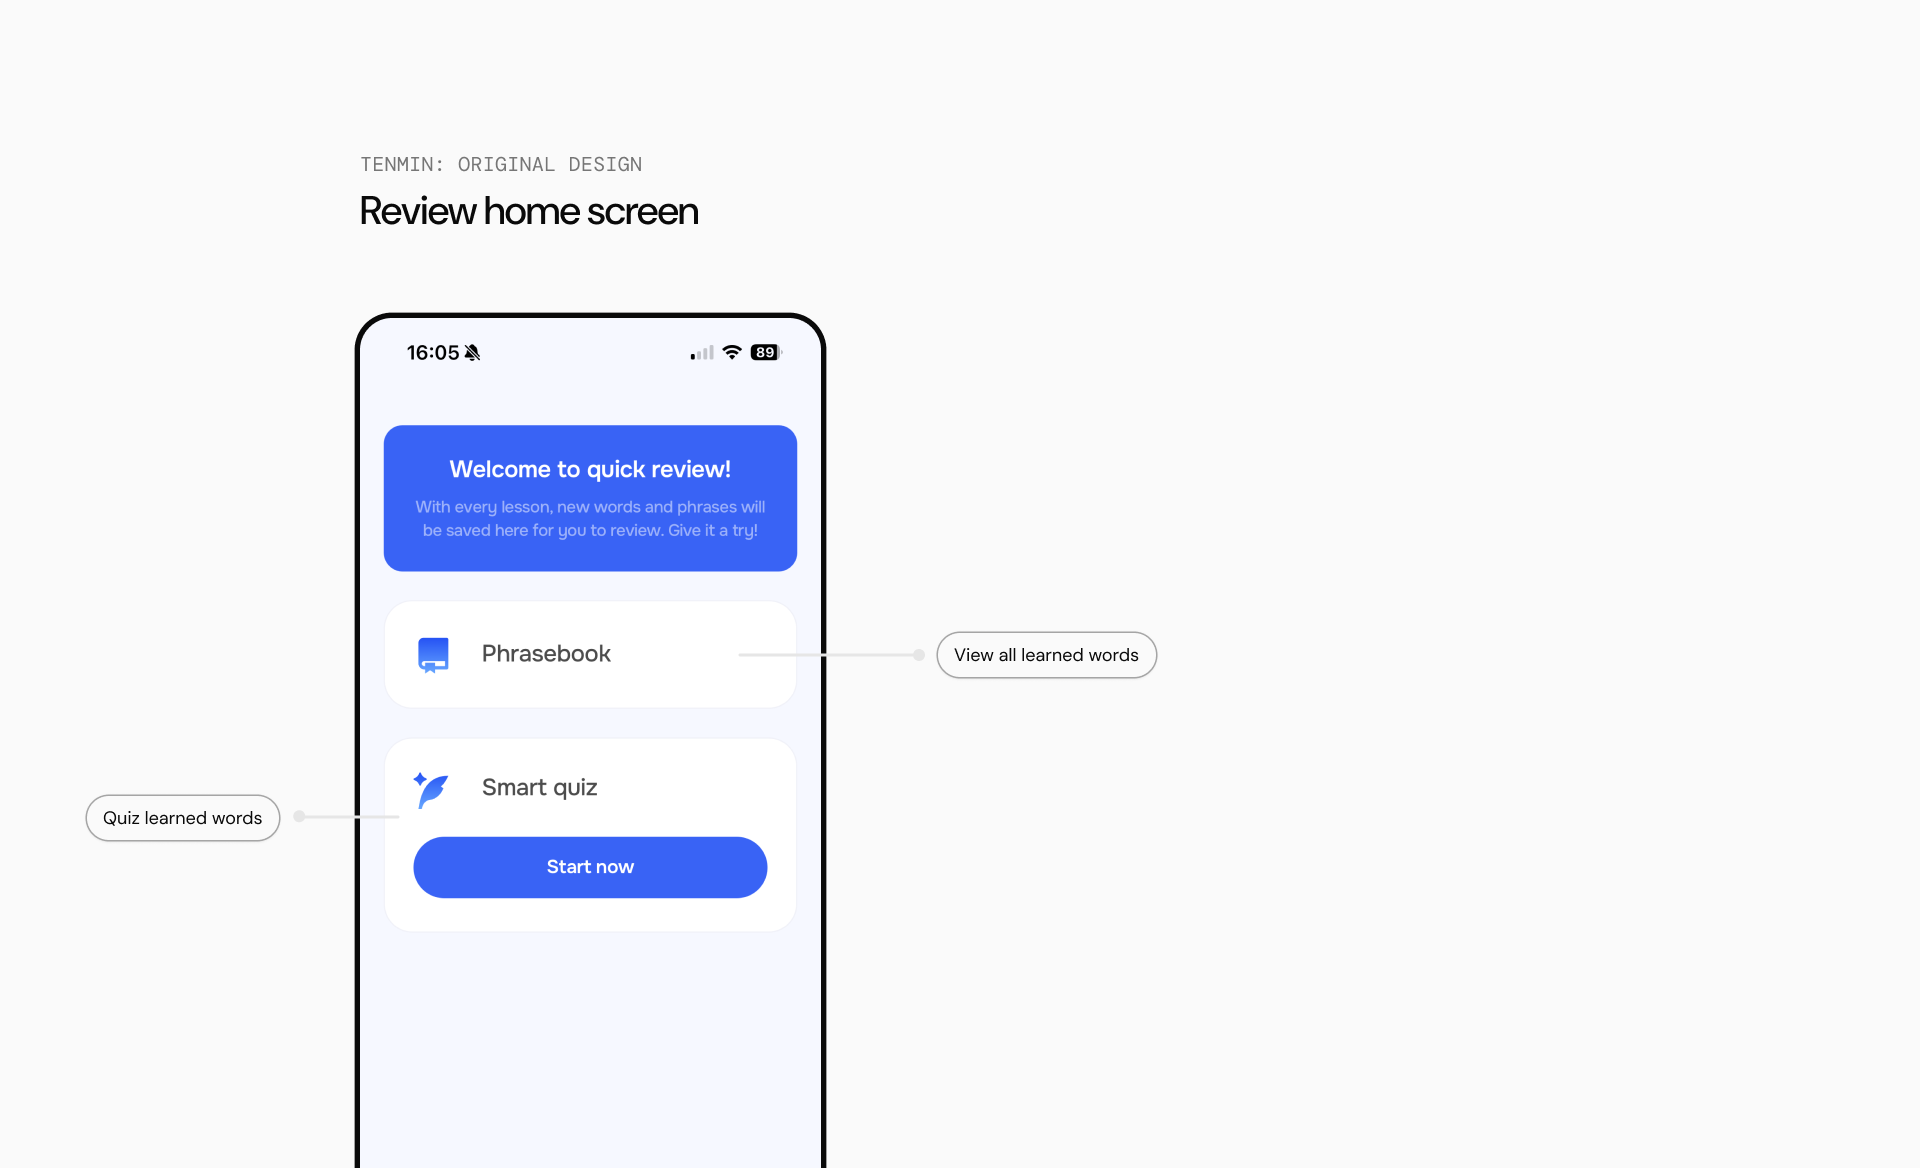
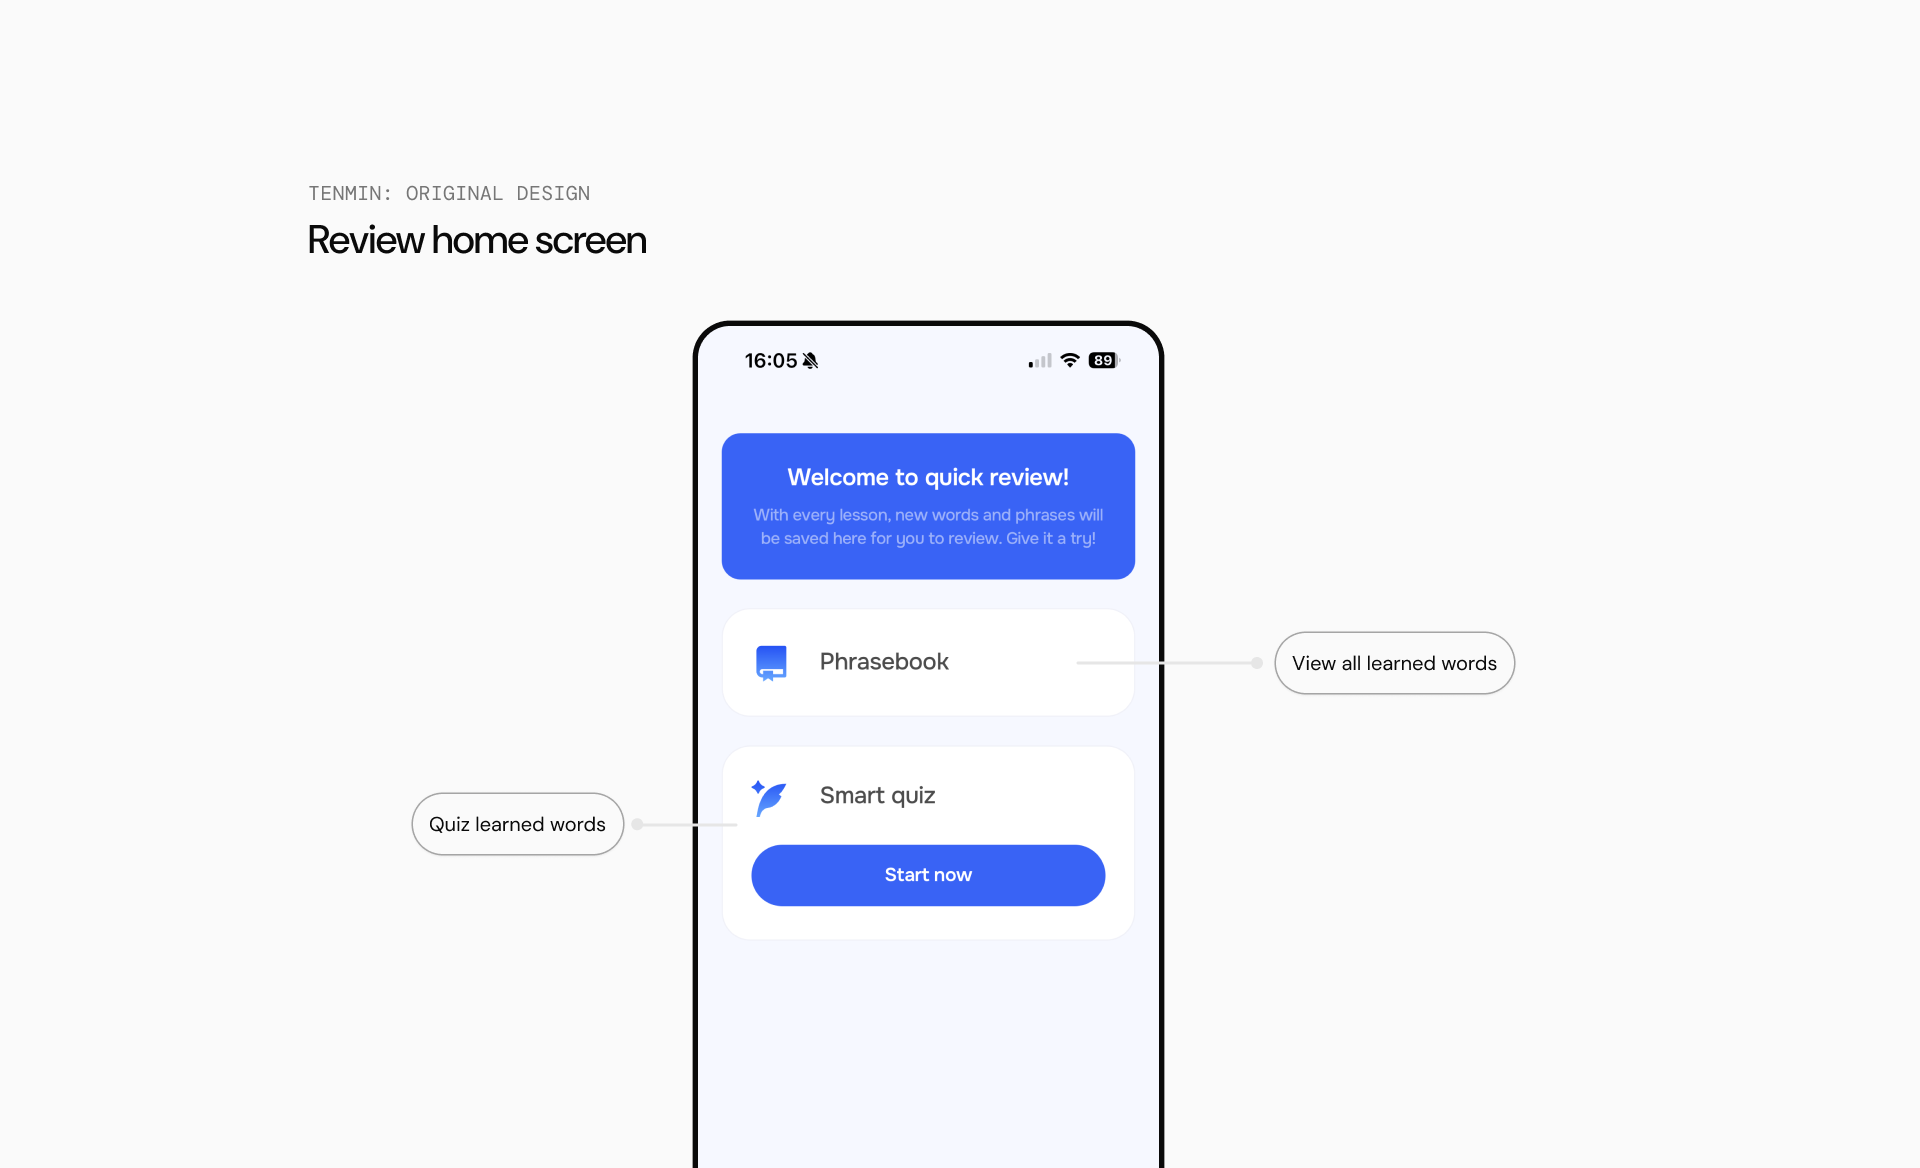
Show the onboarding comparison after the redesign walkthrough
Swap the standalone after shot for the side-by-side, which reads
better directly under the walkthrough: the clip shows the flow moving,
the comparison shows what changed.

It is 4:3 rather than the 120:73 of the image it replaces, so the
frame follows it. Picks up the re-exported stills in the same pass.

diff --git a/src/data/site.ts b/src/data/site.ts
@@ -257,9 +257,9 @@ export const projects: Project[] = [
               ratio: '16 / 9',
             },
             {
-              src: 'after-onboarding.png',
-              alt: 'The redesigned Tenmin onboarding sequence',
-              ratio: '120 / 73',
+              src: 'onboarding-comparison.png',
+              alt: 'The original and redesigned Tenmin onboarding shown side by side',
+              ratio: '4 / 3',
             },
             {
               src: 'after-review-screen.png',
